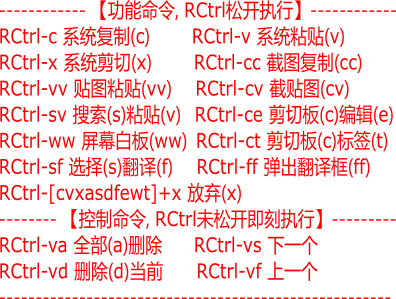
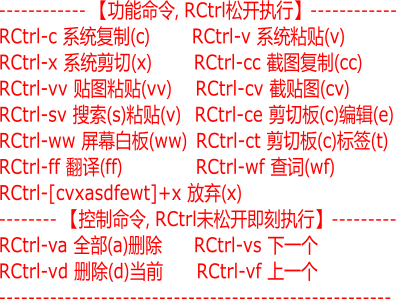
“划词翻译”优势在大段谷歌翻译，“沙拉查词”优势在查词，所以两者我都要。 此外“沙拉查词”通过设置可以保证谷歌浏览器进程一旦启动就不会退出，所以我基于“划词翻译”的相关谷歌浏览器进程维护代码就没有存在的必要的（全部删除）。 RCtrl-ff是“划词翻译”，如果没有选择弹出空的翻译窗口，如果选择了文本则翻译之；RCtrl-wf是“沙拉查词”，如果没有选择弹出空的查词窗口，如果选择了文本则查词之。 经过特别的设置，在本程序（脚本）的加持下，可以在任何位置对所选文本进行“翻译”或“查词”。

Changed region(s): [[0.4848, 0.5117, 0.9394, 0.602], [0.1212, 0.5117, 0.4545, 0.602]]

diff --git a/docs/CtrlRich.md b/docs/CtrlRich.md
@@ -2,9 +2,11 @@
 
 > 本工具是[SharpKnife(利刃)](../README.md)效率工具库的成员
 >
+> 20211225  “划词翻译”优势在大段谷歌翻译，“沙拉查词”优势在查词，所以两者我都要。 此外“沙拉查词”通过设置可以保证谷歌浏览器进程一旦启动就不会退出，所以我基于“划词翻译”的相关谷歌浏览器进程维护代码就没有存在的必要的（全部删除）。 RCtrl-ff是“划词翻译”，如果没有选择弹出空的翻译窗口，如果选择了文本则翻译之；RCtrl-wf是“沙拉查词”，如果没有选择弹出空的查词窗口，如果选择了文本则查词之。 经过特别的设置，在本程序（脚本）的加持下，可以在任何位置对所选文本进行“翻译”或“查词”。
+>
 > 20211223, 彻底解决由于权限问题导致的脚本启动和程序运行问题。1) 首先本程序(脚本)必须以管理员身份运行（否则可能会在高权限窗口操作失效）；2） 谷歌浏览器必须在普通权限下运行（否则本程序运行后无法打开谷歌浏览器）；3）强制Snipaste也以管理员身份运行（否则可能会在高权限窗口操作失效）。
 >
-> 20211221, 在任意任何窗口选择文本然后Ctrl-cf翻译（需要谷歌浏览器和划词翻译扩展支持）
+> 20211221, 在任意任何窗口选择文本然后Ctrl-sf翻译（需要谷歌浏览器和划词翻译扩展支持）
 >
 > 20211220, 彻底解决调用Snipaste作为剪切板历史浏览工具的稳定性问题。
 >
@@ -68,9 +70,9 @@ CtrlRich.exe
 
 - `RCtrl-ct`        剪切板(c)标签(t) ,可修改标签
 
-- `RCtrl-sf`        选择(s)翻译(f) 【需要谷歌浏览器和划词翻译插件支持】
+- `RCtrl-ff`        翻译(ff) 【需要谷歌浏览器和划词翻译插件支持】
 
-- `RCtrl-ff`        弹出翻译框(ff)  【需要谷歌浏览器和划词翻译插件支持】
+- `RCtrl-wf`        查词(wf) 【需要谷歌浏览器和沙拉查词插件支持】
 
 然后是控制命令, RCtrl按下后松开前执行
 
@@ -204,25 +206,37 @@ CtrlRich.exe
 
 - 2）启用“关闭 Google Chrome 后继续运行后台应用”
 
-- 3）安装了“划词翻译”（chrome 网上应用店搜索“划词翻译”）
+- 3）安装了“划词翻译”（chrome 网上应用店搜索“划词翻译”）【优势是大段翻译】
 
-- 4）chrome://extensions/shortcuts，启用“打开独立翻译窗口”快捷键: Ctrl+Shift+1
+- 4）chrome://extensions/shortcuts，启用"划词翻译"中的“打开独立翻译窗口”全局快捷键: Ctrl+Shift+1
 
-- 5) 确保使用此功能前，曾经打开过此独立翻译窗口。
+- 5) 安装了“沙拉查词”（chrome 网上应用店搜索“沙拉查词”）【优势是查词】
 
-独立翻译窗口一旦打开，此扩展作为Chrome后台应用始终存在，即使谷歌浏览器已经关闭。
+- 6）在“沙拉查词设置 - 权限管理”中，启用“读取剪贴板”。 
 
-如果没有此脚本的支持，一旦谷歌浏览器关闭，并且独立翻译窗口，那么必须先启动谷歌浏览器。
+- 7）chrome://extensions/shortcuts，启用"沙拉查词"中的“在独立窗口中搜索剪贴板内容”全局快捷键: Ctrl+Shift+2
 
-- 1) **选择翻译** 【功能命令： `RCtrl-sf`】
+- 8）在“沙拉查词设置 - 基本选项”中，启用“后台保持运行”，然后保存。 
 
-**选择翻译**的程序流程是: 手工选择(s)-复制-翻译(f) ，所以命令取 “sf”
+注意： 
 
-如果没有手工选择，则无动作。
+- 第8）非常重要，这步可以确保谷歌浏览器打开后进程始终存在。 
 
-- 2) **弹出翻译框** 【功能命令： `RCtrl-ff`】
+- 如果没有第8）步，一旦谷歌浏览器关闭， “沙拉查词”和“划词翻译”的独立窗口都关闭了，谷歌浏览器进程会完全退出。
 
-直接弹出翻译框 ，命令不妨取 “ff”
+- 所以，我在本程序（ahk脚本）添加了谷歌进程维护的代码，思路就是拦截"划词翻译"窗口关闭操作，将关闭操作改为最小化。
+
+- 现在有了第8步，我就可以把相关的维护代码全部删除。
+
+现在只要谷歌浏览器打开过，全局快捷键: Ctrl+Shift+1 和 Ctrl+Shift+2就自动生效，哪怕谷歌浏览器的相关窗口全部关闭。
+
+- 1) **翻译** 【功能命令： `RCtrl-ff`】
+
+**翻译**的程序流程是: 采用“划词翻译”扩展全局快捷键: Ctrl+Shift+1。如果没有选择，则翻译上次所选内容; 如果选择了，则翻译当前所选内容
+
+- 2) **查词** 【功能命令： `RCtrl-wf`】
+
+**查词**的程序流程是: 采用“沙拉查词”扩展全局快捷键: Ctrl+Shift+2。如果没有选择，则翻译上次所选内容; 如果选择了，则翻译当前所选内容
 
 ## 控制命令
 
